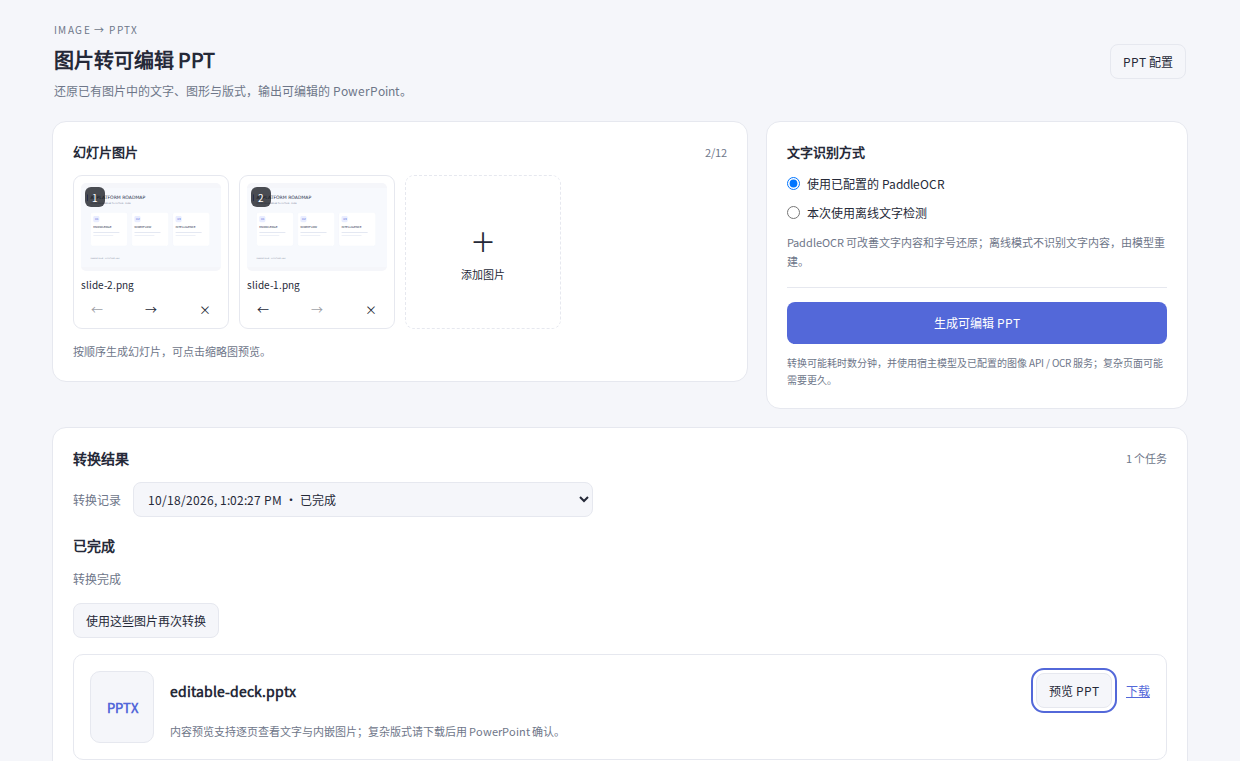
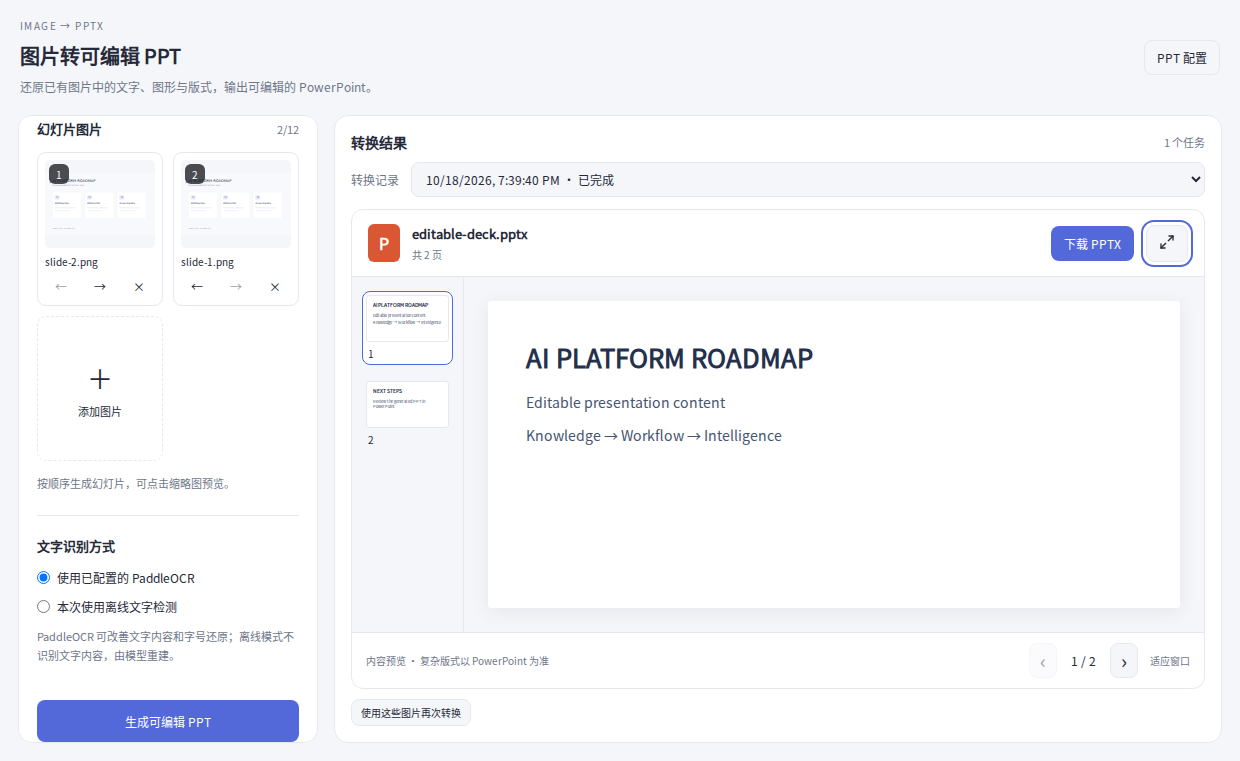
fix: restore two-pane PPT workspace with inline paginated preview

diff --git a/src/client/ppt-workspace.module.css b/src/client/ppt-workspace.module.css
@@ -1,7 +1,5 @@
-/* A bounded, task-oriented surface. Cards grow with their content. */
-.workspace { display: grid; grid-template-columns: minmax(0, 1.65fr) minmax(280px, 1fr); grid-template-areas: 'intro intro' 'sources options' 'results results'; align-content: start; align-items: start; gap: 18px; width: 100%; max-width: 1180px; height: 100%; min-height: 0; margin: 0 auto; padding: 22px; box-sizing: border-box; overflow: auto; color: var(--dsw-alias-label-primary); background: var(--dsw-alias-bg-layer-2); border-radius: 16px; }
+/* PPT mode, configuration dialog and slide content reader. */
 .workspace[hidden] { display: none; }
-.sidebar { display: contents; }
 .workspace h2, .workspace h3 { margin: 0; font-size: 18px; }
 .workspace h3 { font-size: 14px; }
 .workspace p, .setup p { margin: 0; font-size: 12px; line-height: 1.7; color: var(--dsw-alias-label-secondary); }
@@ -10,9 +8,6 @@
 .intro > button { flex: none; }
 .eyebrow { display: block; margin-bottom: 8px; font-size: 10px; letter-spacing: .14em; color: var(--dsw-alias-label-secondary); }
 .sourceSection, .options, .results { min-width: 0; padding: 20px; border: 1px solid var(--dsw-alias-border-l2); border-radius: 14px; background: var(--dsw-alias-bg-layer-1); }
-.sourceSection { grid-area: sources; display: flex; flex-direction: column; gap: 14px; }
-.options { grid-area: options; display: flex; flex-direction: column; gap: 16px; }
-.results { grid-area: results; }
 .workspace button, .setup button { padding: 8px 12px; border: 1px solid var(--dsw-alias-border-l2); border-radius: 8px; background: var(--dsw-alias-bg-layer-2); color: inherit; cursor: pointer; font: inherit; font-size: 12px; }
 .workspace button:disabled, .setup button:disabled { opacity: .45; cursor: default; }
 .workspace button:focus-visible, .setup button:focus-visible, .workspace a:focus-visible { outline: 2px solid var(--dsw-alias-brand-primary); outline-offset: 3px; }
@@ -22,7 +17,6 @@
 .workspace .upload { display: flex; min-height: 154px; flex-direction: column; align-items: center; justify-content: center; gap: 8px; padding: 20px 12px; border-style: dashed; }
 .upload > span { font-size: 26px; }
 .upload small, .field small, .ocr small { color: var(--dsw-alias-label-secondary); font-size: 11px; line-height: 1.7; }
-.inputs { display: grid; grid-template-columns: repeat(auto-fill, minmax(125px, 1fr)); gap: 10px; max-height: 330px; overflow: auto; list-style: none; padding: 0; margin: 0; }
 .inputs li { position: relative; display: flex; flex-direction: column; gap: 6px; padding: 7px; min-width: 0; border: 1px solid var(--dsw-alias-border-l2); border-radius: 9px; }
 .inputs .thumbnail { display: block; width: 100%; padding: 0; border: none; border-radius: 5px; background: var(--dsw-alias-bg-layer-2); overflow: hidden; }
 .thumbnail img { display: block; width: 100%; height: 88px; object-fit: contain; }
@@ -30,8 +24,6 @@
 .inputName { display: block; overflow: hidden; text-overflow: ellipsis; white-space: nowrap; font-size: 10px; }
 .inputActions { display: flex; width: 100%; justify-content: space-between; gap: 4px; }
 .inputActions button { padding: 2px 9px; background: transparent; border-color: transparent; }
-.inputs .addTile { min-height: 150px; padding: 0; border-style: dashed; }
-.addTile > button { display: flex; flex: 1; width: 100%; min-height: 150px; flex-direction: column; justify-content: center; align-items: center; gap: 7px; border: none; background: transparent; }
 .addTile > button span { font-size: 26px; }
 .addTile small { font-size: 11px; }
 .ocr { display: flex; flex-direction: column; gap: 12px; padding: 0; margin: 0; border: none; font-size: 12px; }
@@ -44,20 +36,11 @@
 .workspace .error { color: var(--dsw-alias-state-danger-primary, #b33535); white-space: pre-wrap; overflow-wrap: anywhere; }
 .resultHeader { display: flex; align-items: center; justify-content: space-between; gap: 12px; margin-bottom: 14px; }
 .resultHeader > span { color: var(--dsw-alias-label-secondary); font-size: 11px; }
-.empty { display: flex; min-height: 130px; flex-direction: column; align-items: center; justify-content: center; gap: 10px; text-align: center; }
 .empty > .fileIcon { width: 42px; height: 48px; font-size: 10px; }
 .fileIcon { display: inline-grid; flex: none; place-items: center; width: 64px; height: 72px; border: 1px solid var(--dsw-alias-border-l2); border-radius: 10px; background: var(--dsw-alias-bg-layer-2); color: var(--dsw-alias-brand-primary); font-size: 13px; font-weight: 600; }
-.taskPicker { display: flex; align-items: center; gap: 12px; max-width: 520px; margin: 0 0 18px; color: var(--dsw-alias-label-secondary); font-size: 12px; }
 .taskPicker select { flex: 1; min-width: 0; padding: 7px 10px; border: 1px solid var(--dsw-alias-border-l2); border-radius: 8px; color: var(--dsw-alias-label-primary); background: var(--dsw-alias-bg-layer-2); font: inherit; }
-.resultActions { display: flex; flex-wrap: wrap; gap: 8px; margin: 14px 0 0; }
 .workspace .failure { padding: 12px 14px; border: 1px solid rgb(208 64 64 / 20%); border-radius: 9px; color: var(--dsw-alias-state-danger-primary, #b33535); background: rgb(208 64 64 / 5%); white-space: pre-wrap; overflow-wrap: anywhere; }
 .workspace .progress { white-space: pre-wrap; overflow-wrap: anywhere; }
-.outputs { display: flex; flex-direction: column; gap: 12px; margin-top: 16px; }
-.outputs .deckCard { display: grid; grid-template-columns: 64px minmax(0, 1fr) auto; align-items: center; gap: 10px 16px; min-width: 0; padding: 16px; border: 1px solid var(--dsw-alias-border-l2); border-radius: 10px; }
-.deckCard > .fileIcon { grid-row: span 2; }
-.deckCard > strong { overflow-wrap: anywhere; font-size: 14px; }
-.deckActions { display: flex; align-items: center; gap: 14px; }
-.deckCard > small { grid-column: 2 / -1; color: var(--dsw-alias-label-secondary); font-size: 11px; line-height: 1.7; }
 .setup { display: flex; flex-direction: column; gap: 12px; }
 .setup a, .workspace a { color: var(--dsw-alias-brand-primary); font-size: 12px; }
 .setup form { display: flex; flex-direction: column; gap: 14px; }
@@ -74,18 +57,94 @@
 .sourcePreview { display: block; width: 100%; max-height: 70vh; object-fit: contain; }
 .diagnosticHint { margin: 0 0 12px; color: var(--dsw-alias-label-secondary); font-size: 12px; line-height: 1.7; }
 .diagnosticText { width: 100%; box-sizing: border-box; resize: vertical; padding: 12px; border: 1px solid var(--dsw-alias-border-l2); border-radius: 8px; background: var(--dsw-alias-bg-layer-2); color: inherit; font: 12px/1.6 monospace; }
+
+/* Two-pane PPT studio: controls on the left, open deck reader on the right. */
+.workspace { display: grid; width: 100%; height: 100%; min-height: 0; box-sizing: border-box; color: var(--dsw-alias-label-primary); background: var(--dsw-alias-bg-layer-2); border-radius: 16px; max-width: none; grid-template-columns: 300px minmax(0, 1fr); grid-template-rows: auto minmax(0, 1fr); grid-template-areas: 'intro intro' 'sidebar results'; gap: 16px; padding: 18px; overflow: hidden; align-content: stretch; align-items: stretch; }
+.sidebar { grid-area: sidebar; display: flex; flex-direction: column; min-height: 0; overflow: auto; padding: 18px; border: 1px solid var(--dsw-alias-border-l2); border-radius: 14px; background: var(--dsw-alias-bg-layer-1); }
+.sourceSection, .options { border: none; border-radius: 0; padding: 0; background: transparent; }
+.sourceSection { display: flex; flex-direction: column; gap: 14px; flex: none; }
+.options { display: flex; flex-direction: column; gap: 16px; margin-top: 22px; padding-top: 20px; border-top: 1px solid var(--dsw-alias-border-l2); flex: 1; }
+.options .submitBar { margin-top: auto; padding-top: 20px; border-top: none; }
+.inputs { display: grid; gap: 10px; overflow: auto; list-style: none; padding: 0; margin: 0; grid-template-columns: repeat(2, minmax(0, 1fr)); max-height: 350px; }
+.inputs .addTile { padding: 0; border-style: dashed; }
+.addTile > button { display: flex; flex: 1; width: 100%; min-height: 143px; flex-direction: column; justify-content: center; align-items: center; gap: 7px; border: none; background: transparent; }
+.results { grid-area: results; display: flex; flex-direction: column; min-height: 0; overflow: auto; padding: 16px; }
+.results > .resultHeader { margin-bottom: 10px; }
+.taskPicker { display: flex; align-items: center; gap: 12px; font-size: 12px; color: var(--dsw-alias-label-secondary); max-width: none; margin-bottom: 12px; }
+.result { display: flex; flex-direction: column; min-height: 0; flex: 1; }
+.result > .resultHeader[hidden], .result > p[hidden] { display: none; }
+.resultActions { display: flex; flex-wrap: wrap; gap: 8px; flex: none; margin: 12px 0; }
+.resultActions[data-completed] { order: 2; margin: 10px 0 0; }
+.resultActions[data-completed] button { padding: 5px 9px; font-size: 10px; }
+.outputs { display: flex; flex-direction: column; gap: 12px; flex: 1; min-height: 0; margin-top: 0; }
+.outputs:empty { display: none; }
+.empty { display: flex; flex: 1; flex-direction: column; align-items: center; justify-content: center; gap: 10px; padding: 24px; text-align: center; }
+.deckViewer { display: flex; flex-direction: column; min-height: 360px; flex: 1; border: 1px solid var(--dsw-alias-border-l2); border-radius: 12px; background: var(--dsw-alias-bg-layer-1); overflow: hidden; }
+.viewerHeader { display: flex; align-items: center; gap: 12px; padding: 14px 16px; border-bottom: 1px solid var(--dsw-alias-border-l2); }
+.pptBadge { display: grid; place-items: center; flex: none; width: 32px; height: 38px; border-radius: 6px; background: #d95732; color: #fff; font-weight: 700; }
+.viewerTitle { display: flex; flex-direction: column; gap: 4px; min-width: 0; flex: 1; }
+.viewerTitle strong { overflow: hidden; text-overflow: ellipsis; white-space: nowrap; font-size: 13px; }
+.viewerTitle small { color: var(--dsw-alias-label-secondary); font-size: 10px; }
+.workspace a.download, .dialog a.download { flex: none; text-decoration: none; padding: 9px 13px; border-radius: 8px; color: #fff; background: var(--dsw-alias-brand-primary); font-size: 12px; }
+.viewerBody { display: flex; flex: 1; min-height: 0; background: var(--dsw-alias-bg-layer-2); }
+.filmstrip { display: flex; flex-direction: column; gap: 12px; flex: none; width: 112px; padding: 14px 10px; overflow: auto; border-right: 1px solid var(--dsw-alias-border-l2); }
+.filmstrip button { flex: none; padding: 3px; background: transparent; border-color: transparent; font-size: 10px; text-align: left; }
+.filmstrip button[aria-current=page] { border-color: var(--dsw-alias-brand-primary); background: var(--dsw-alias-bg-layer-1); }
+.filmstrip button > span { display: block; padding: 4px 2px 0; }
+.miniSlide { aspect-ratio: 16 / 9; overflow: hidden; background: #fff; border: 1px solid #e6e8ee; border-radius: 3px; color: #25314c; }
+.slideStage { flex: 1; min-width: 0; display: flex; align-items: center; justify-content: center; padding: 24px; overflow: auto; }
+.slidePaper { width: 100%; max-width: 1200px; max-height: 100%; aspect-ratio: 16 / 9; min-height: 180px; overflow: auto; background: #fff; border-radius: 3px; color: #25314c; box-shadow: 0 4px 18px rgb(35 45 65 / 8%); }
+.slideContent { padding: clamp(18px, 3vw, 48px); }
+.slideContent h2 { font-size: clamp(18px, 2vw, 32px); line-height: 1.3; margin: 0 0 18px; color: #25314c; }
+.slideLines { display: flex; flex-direction: column; gap: 10px; }
+.slideLines p { font-size: clamp(12px, 1.1vw, 18px); line-height: 1.6; color: #455471; overflow-wrap: anywhere; }
+.slideImages { display: flex; flex-wrap: wrap; justify-content: center; gap: 12px; margin-bottom: 16px; }
+.slideImages img { max-width: 100%; max-height: 220px; object-fit: contain; }
+.slideContent[data-compact] { padding: 6px; pointer-events: none; }
+.slideContent[data-compact] h2 { font-size: 5px; margin-bottom: 4px; }
+.slideContent[data-compact] .slideLines { gap: 2px; }
+.slideContent[data-compact] p { font-size: 4px; line-height: 1.3; }
+.slideContent[data-compact] .slideImages { gap: 2px; margin-bottom: 3px; }
+.slideContent[data-compact] img { max-height: 20px; }
+.viewerFooter { display: flex; align-items: center; justify-content: space-between; gap: 12px; padding: 10px 14px; border-top: 1px solid var(--dsw-alias-border-l2); }
+.viewerFooter small { flex: 1; color: var(--dsw-alias-label-secondary); font-size: 10px; }
+.pageControls { display: flex; align-items: center; gap: 14px; flex: none; font-size: 12px; }
+.pageControls button { padding: 2px 10px; font-size: 20px; }
+.fitLabel { font-size: 10px; color: var(--dsw-alias-label-secondary); }
+.viewerPlaceholder { display: flex; align-items: center; justify-content: center; flex-direction: column; gap: 16px; flex: 1; padding: 30px; text-align: center; }
+.previewNotice { padding: 8px 14px; }
+.dialog:has(.deckViewer) { width: min(1400px, 96vw); }
+.dialogBody:has(.deckViewer) { padding: 0; display: flex; min-height: 0; }
+.dialogBody > .deckViewer { min-height: min(650px, 70vh); border: none; }
+.dialog button { cursor: pointer; }
+@media (max-width: 1000px) and (min-width: 761px) {
+ .workspace { grid-template-columns: 260px minmax(0, 1fr); padding: 12px; gap: 12px; }
+ .sidebar { padding: 14px; }
+ .filmstrip { width: 78px; padding: 10px 6px; }
+ .slideStage { padding: 12px; }
+ .fitLabel { display: none; }
+ .viewerHeader { flex-wrap: wrap; padding: 10px; gap: 8px; }
+ .viewerFooter { flex-wrap: wrap; }
+}
 @media (max-width: 760px) {
-  .workspace { grid-template-columns: minmax(0, 1fr); grid-template-areas: 'intro' 'sources' 'options' 'results'; gap: 12px; padding: 12px; }
-  .intro { align-items: flex-start; gap: 12px; }
-  .intro h2 { font-size: 17px; }
-  .intro p { font-size: 11px; }
-  .sourceSection, .options, .results { padding: 16px; }
-  .inputs { grid-template-columns: repeat(auto-fill, minmax(115px, 1fr)); }
-  .outputs .deckCard { grid-template-columns: 48px minmax(0, 1fr); gap: 12px; }
-  .deckCard > .fileIcon { width: 48px; height: 60px; grid-row: span 2; }
-  .deckActions { grid-column: 2; }
-  .deckCard > small { grid-column: 1 / -1; }
-  .overlay { padding: 12px; }
-  .dialog { max-height: 94vh; }
-  .dialogBody { padding: 16px; }
+ .workspace { display: flex; flex-direction: column; overflow: auto; padding: 12px; gap: 12px; }
+ .intro, .sidebar, .results { flex: none; }
+ .intro { align-items: flex-start; gap: 12px; }
+ .intro h2 { font-size: 17px; }
+ .intro p { font-size: 11px; }
+ .overlay { padding: 12px; }
+ .dialog { max-height: 94vh; }
+ .dialogBody { padding: 16px; }
+ .sidebar { overflow: visible; padding: 16px; }
+ .inputs { grid-template-columns: repeat(auto-fill, minmax(115px, 1fr)); }
+ .results { min-height: 480px; overflow: visible; padding: 12px; }
+ .result, .outputs { min-height: 360px; }
+ .filmstrip { width: 72px; padding: 10px 5px; }
+ .slideStage { padding: 10px; }
+ .viewerHeader { gap: 8px; flex-wrap: wrap; padding: 10px; }
+ .viewerTitle { min-width: 100px; }
+ .viewerFooter { flex-wrap: wrap; gap: 8px; padding: 10px; }
+ .viewerFooter small { flex-basis: 100%; }
+ .fitLabel { margin-left: auto; }
+ .slidePaper { min-height: 160px; }
 }

diff --git a/src/client/PptWorkspace.tsx b/src/client/PptWorkspace.tsx
@@ -4,7 +4,7 @@ import type { CanvasAssetRef, CanvasSkillCatalog, CanvasSkillTask } from '../pro
 import type { ImageGenApi } from './api.ts'
 import { errorMessage, tt } from './helpers.ts'
 import { useImageGenLanguageTick } from './use-language.ts'
-import { CanvasFileOverlay } from './CanvasFilePreview.tsx'
+import { PptDeckPreview } from './PptDeckPreview.tsx'
 import { PptSetup, PPT_SKILL_NAME } from './PptSetup.tsx'
 import css from './ppt-workspace.module.css'
 
@@ -118,8 +118,8 @@ export function PptWorkspace({ api, active, importRequest, onImported }: { api: 
     finally { setBusy(false) }
   }
   return <div className={css.workspace} hidden={!active} data-ppt-workspace="">
+    <header className={css.intro}><div><span className={css.eyebrow}>IMAGE → PPTX</span><h2>{tt('ppt.title')}</h2><p>{tt('ppt.description')}</p></div><button type="button" data-ppt-open-settings="" onClick={() => setSettingsOpen(true)}>{tt('ppt.openSettings')}</button></header>
     <aside className={css.sidebar}>
-      <header className={css.intro}><div><span className={css.eyebrow}>IMAGE → PPTX</span><h2>{tt('ppt.title')}</h2><p>{tt('ppt.description')}</p></div><button type="button" data-ppt-open-settings="" onClick={() => setSettingsOpen(true)}>{tt('ppt.openSettings')}</button></header>
       <section className={css.sourceSection} onDragOver={event => event.preventDefault()} onDrop={event => { event.preventDefault(); if (!busy) accept(Array.from(event.dataTransfer.files)) }}>
         <div className={css.sourceHeading}><strong>{tt('ppt.sources')}</strong><span>{images.length}/12</span></div>
         {images.length === 0 ? <button type="button" className={css.upload} data-ppt-upload-empty="" disabled={uploading || busy} onClick={() => fileInput.current?.click()}>
@@ -160,11 +160,11 @@ export function PptWorkspace({ api, active, importRequest, onImported }: { api: 
       {tasks.length === 0 ? <div className={css.empty}><span className={css.fileIcon}>PPTX</span><h3>{tt('ppt.empty')}</h3><p>{tt('ppt.emptyHint')}</p></div> : <>
         <label className={css.taskPicker}><span>{tt('ppt.history')}</span><select aria-label={tt('ppt.history')} value={focused?.id ?? ''} onChange={event => setSelected(event.target.value)}>{tasks.map(task => <option key={task.id} value={task.id}>{new Date(task.startedAt).toLocaleString()} · {tt(`tasks.${task.status}` as never)}</option>)}</select></label>
         {focused ? <section className={css.result} data-ppt-task={focused.id} data-task-status={focused.status}>
-          <div className={css.resultHeader}><h3>{tt(`tasks.${focused.status}` as never)}</h3>
+          <div className={css.resultHeader} hidden={focused.status === 'completed'}><h3>{tt(`tasks.${focused.status}` as never)}</h3>
             {running(focused) ? <button type="button" onClick={() => { void api.canvasSkillCancel(focused.id).then(async () => setTasks(await api.pptTasks())).catch(error => setError(errorMessage(error))) }}>{tt('ppt.cancel')}</button> : null}
           </div>
-          <p className={focused.status === 'failed' ? css.failure : css.progress} role="status">{running(focused) ? `${focused.stage || tt('ppt.working')} · ${tt('canvas.elapsed', { seconds: Math.max(0, Math.floor((clock - focused.startedAt) / 1000)) })}` : focused.error || focused.stage}</p>
-          <div className={css.resultActions}>
+          <p hidden={focused.status === 'completed'} className={focused.status === 'failed' ? css.failure : css.progress} role="status">{running(focused) ? `${focused.stage || tt('ppt.working')} · ${tt('canvas.elapsed', { seconds: Math.max(0, Math.floor((clock - focused.startedAt) / 1000)) })}` : focused.error || focused.stage}</p>
+          <div className={css.resultActions} data-completed={focused.status === 'completed' || undefined}>
             <button type="button" disabled={busy || uploading} onClick={() => { commit(focused.pptImages ?? []); setError('') }}>{tt('ppt.reuseImages')}</button>
             {focused.status === 'failed' || focused.status === 'cancelled' ? <button type="button" disabled={!ready || busy || uploading || !focused.pptImages?.length} onClick={() => { commit(focused.pptImages ?? []); void submit(focused.pptImages) }}>{tt('ppt.retry')}</button> : null}
             {focused.status === 'failed' ? <><button type="button" onClick={() => setSettingsOpen(true)}>{tt('ppt.checkSetup')}</button><button type="button" data-ppt-diagnostic="" onClick={() => setDiagnostic(focused)}>{tt('ppt.diagnostic')}</button></> : null}
@@ -173,12 +173,7 @@ export function PptWorkspace({ api, active, importRequest, onImported }: { api: 
           <div className={css.outputs}>{focused.output?.nodes.map(node => {
             const asset = node.metadata?.asset
             if (!asset || !asset.name?.toLowerCase().endsWith('.pptx')) return null
-            return <article key={node.id} className={css.deckCard} data-ppt-deck="">
-              <span className={css.fileIcon}>PPTX</span>
-              <strong>{asset.name || node.title}</strong>
-              <div className={css.deckActions}><button type="button" data-ppt-preview="" onClick={() => setPptPreview(asset)}>{tt('ppt.previewDeck')}</button><a href={asset.url} download={asset.name}>{tt('download')}</a></div>
-              <small>{tt('ppt.previewHint')}</small>
-            </article>
+            return <PptDeckPreview key={`${focused.id}-${asset.assetId}`} api={api} asset={asset} onExpand={() => setPptPreview(asset)} />
           })}</div>
         </section> : null}
       </>}
@@ -188,7 +183,7 @@ export function PptWorkspace({ api, active, importRequest, onImported }: { api: 
       <p className={css.diagnosticHint}>{tt(diagnostic.agentSessionId ? 'ppt.diagnosticHint' : 'ppt.legacyDiagnostic')}</p>
       <textarea className={css.diagnosticText} readOnly rows={14} aria-label={tt('ppt.diagnostic')} onFocus={event => event.currentTarget.select()} value={JSON.stringify({ taskId: diagnostic.id, status: diagnostic.status, startedAt: new Date(diagnostic.startedAt).toISOString(), finishedAt: diagnostic.finishedAt ? new Date(diagnostic.finishedAt).toISOString() : undefined, agentSessionId: diagnostic.agentSessionId, runDirectory: diagnostic.runDirectory, error: diagnostic.error, inputCount: diagnostic.pptImages?.length }, null, 2)} />
     </PptDialog> : null}
-    {pptPreview ? createPortal(<CanvasFileOverlay key={pptPreview.assetId} api={api} asset={pptPreview} fileKind="office" title={pptPreview.name || 'PPTX'} onClose={() => setPptPreview(undefined)} />, document.body) : null}
+    {pptPreview ? <PptDialog title={pptPreview.name || 'PPTX'} close={() => setPptPreview(undefined)}><PptDeckPreview key={pptPreview.assetId} api={api} asset={pptPreview} /></PptDialog> : null}
     {sourcePreview ? <PptDialog title={sourcePreview.name || tt('ppt.previewSource')} close={() => setSourcePreview(undefined)}><img className={css.sourcePreview} src={sourcePreview.url} alt={sourcePreview.name || ''} /></PptDialog> : null}
   </div>
 }

diff --git a/src/client/PptDeckPreview.tsx b/src/client/PptDeckPreview.tsx
@@ -1,0 +1,48 @@
+import { useEffect, useState } from 'react'
+import { Maximize2 } from 'lucide-react'
+import type { CanvasAssetRef, CanvasSlidePreview } from '../protocol.ts'
+import type { ImageGenApi } from './api.ts'
+import { useFilePreview } from './CanvasFilePreview.tsx'
+import { tt } from './helpers.ts'
+import css from './ppt-workspace.module.css'
+
+function SlideContent({ slide, compact = false }: { slide: CanvasSlidePreview; compact?: boolean }) {
+  return <div className={css.slideContent} data-compact={compact || undefined}>
+    {slide.title ? <h2>{slide.title}</h2> : null}
+    {slide.images.length ? <div className={css.slideImages}>{slide.images.map((image, index) => <img key={index} src={image.data} alt="" loading="lazy" />)}</div> : null}
+    <div className={css.slideLines}>{(compact ? slide.lines.slice(0, 4) : slide.lines).map((line, index) => <p key={index}>{line}</p>)}</div>
+  </div>
+}
+
+/** Read the generated PPTX itself, never use its input images as slide previews. */
+export function PptDeckPreview({ api, asset, onExpand }: { api: ImageGenApi; asset: CanvasAssetRef; onExpand?: () => void }) {
+  const { preview, error, reload } = useFilePreview(api, asset, true)
+  const [page, setPage] = useState(0)
+  const slides = preview?.kind === 'slides' ? preview.slides : []
+  const index = Math.min(page, Math.max(0, slides.length - 1))
+  const slide = slides[index]
+  useEffect(() => { setPage(0) }, [asset.assetId])
+  return <div className={css.deckViewer} data-ppt-deck="">
+    <header className={css.viewerHeader}>
+      <span className={css.pptBadge}>P</span><div className={css.viewerTitle}><strong title={asset.name}>{asset.name || 'PowerPoint'}</strong><small>{slides.length ? tt('ppt.pages', { count: slides.length }) : 'PPTX'}</small></div>
+      <a className={css.download} href={asset.url} download={asset.name}>{tt('ppt.downloadDeck')}</a>
+      {onExpand ? <button type="button" data-ppt-preview="" aria-label={tt('ppt.expand')} title={tt('ppt.expand')} onClick={onExpand}><Maximize2 size={16} aria-hidden="true" /></button> : null}
+    </header>
+    {slide ? <>
+      <div className={css.viewerBody}>
+        <nav className={css.filmstrip} aria-label={tt('ppt.pageNavigation')}>
+          {slides.map((item, at) => <button type="button" key={at} data-ppt-page={at + 1} aria-label={tt('ppt.goToPage', { page: at + 1 })} aria-current={at === index ? 'page' : undefined} onClick={() => setPage(at)}>
+            <div className={css.miniSlide}><SlideContent slide={item} compact /></div><span>{at + 1}</span>
+          </button>)}
+        </nav>
+        <div className={css.slideStage} data-ppt-slide={index + 1}><div className={css.slidePaper}><SlideContent slide={slide} /></div></div>
+      </div>
+      <footer className={css.viewerFooter}><small>{tt('ppt.contentPreview')}</small><div className={css.pageControls}>
+        <button type="button" aria-label={tt('ppt.previousPage')} disabled={index === 0} onClick={() => setPage(index - 1)}>‹</button>
+        <span aria-live="polite">{index + 1} / {slides.length}</span>
+        <button type="button" aria-label={tt('ppt.nextPage')} disabled={index >= slides.length - 1} onClick={() => setPage(index + 1)}>›</button>
+      </div><span className={css.fitLabel}>{tt('ppt.fitWindow')}</span></footer>
+      {preview?.kind === 'slides' && preview.truncated ? <p className={css.previewNotice}>{tt('canvas.preview.slidesTruncated', { count: slides.length })}</p> : null}
+    </> : <div className={css.viewerPlaceholder} role="status"><span className={css.fileIcon}>PPTX</span><p>{error ? tt('canvas.preview.failed', { message: error }) : preview ? tt('canvas.preview.empty') : tt('canvas.skills.filePreviewLoading')}</p>{error ? <button type="button" onClick={reload}>{tt('canvas.preview.retry')}</button> : null}</div>}
+  </div>
+}

diff --git a/scripts/ppt-preview.tsx b/scripts/ppt-preview.tsx
@@ -8,9 +8,10 @@ import type { CanvasSkillTask } from '../src/protocol.ts'
 
 const assets = [1, 2].map(index => ({ assetId: `slide-${index}.png`, url: '/slide.png', mime: 'image/png', bytes: 100, width: 1600, height: 900, origin: 'upload' as const, name: `AI-planning-${index}.png` }))
 let task: CanvasSkillTask | undefined
+let previewAttempts = 0
 const api = {
   async canvasFileUpload(file: File) { return { ...assets[0], name: file.name } },
-  async canvasFilePreview() { return { kind: 'slides', format: 'pptx', slides: [{ title: 'AI PLATFORM ROADMAP', lines: ['Editable presentation content', 'Knowledge → Workflow → Intelligence'], images: [] }, { title: 'NEXT STEPS', lines: ['Review the generated PPT in PowerPoint'], images: [] }], truncated: false } },
+  async canvasFilePreview(asset: { assetId: string }) { if (asset.assetId === 'preview-retry.pptx' && previewAttempts++ === 0) throw new Error('Preview temporarily unavailable'); return { kind: 'slides', format: 'pptx', slides: [{ title: 'AI PLATFORM ROADMAP', lines: ['Editable presentation content', 'Knowledge → Workflow → Intelligence'], images: [] }, { title: 'NEXT STEPS', lines: ['Review the generated PPT in PowerPoint'], images: [] }], truncated: false } },
   async pptTasks() { return task ? [task] : [] },
   async canvasSkillsList() { return { skills: [], installed: ['image-to-editable-ppt'], agentAvailable: true, registryAvailable: true } },
   async canvasSkillLibrary() { return { entries: [{ name: 'image-to-editable-ppt', config: { values: [{ id: 'paddle-ocr-token', set: true }] } }] } },
@@ -28,7 +29,8 @@ function Preview() {
     <button onClick={() => {
       task = { id: 'ppt-preview', canvasId: 'ppt', skillId: 'ppt.fromImages', label: 'PPT', tier: 'heavy', status: 'completed', startedAt: Date.now() - 204000, pptImages: assets, stage: '转换完成', output: { nodes: [{ id: 'deck', type: 'file', title: 'editable-deck.pptx', x: 0, y: 0, width: 300, height: 170, metadata: { asset: { ...assets[0], assetId: 'deck.pptx', mime: 'application/vnd.openxmlformats-officedocument.presentationml.presentation', name: 'editable-deck.pptx', url: '/deck.pptx' } } }, { id: 'preview', type: 'file', title: 'preview.png', x: 0, y: 0, width: 300, height: 170, metadata: { asset: { ...assets[0], name: 'preview.png' } } }], connections: [], warnings: [] } }
     }}>示例完成</button>
-    <button onClick={() => { if (task) task = { ...task, status: 'failed', outputs: [], error: 'Model API returned 401', agentSessionId: 'skillagent-preview', runDirectory: '/example/ppt/run' } }}>示例失败</button>
+    <button onClick={() => { if (task?.output) task = { ...task, status: 'completed', output: { ...task.output, nodes: task.output.nodes.slice(0, 1).map(node => ({ ...node, metadata: { ...node.metadata, asset: { ...node.metadata!.asset!, assetId: 'preview-retry.pptx' } } })) } } }}>示例预览重试</button>
+    <button onClick={() => { if (task) task = { ...task, status: 'failed', output: undefined, error: 'Model API returned 401', agentSessionId: 'skillagent-preview', runDirectory: '/example/ppt/run' } }}>示例失败</button>
     <button onClick={() => { task = undefined }}>清空示例</button>
   </header>{setup ? <main className="settings"><h2>图片转可编辑 PPT 配置</h2><PptSetup /></main> : <main><PptWorkspace api={api} active importRequest={importRequest} onImported={() => setImport(undefined)} /></main>}</div>
 }

diff --git a/src/client/locales.ts b/src/client/locales.ts
@@ -7,6 +7,15 @@ export const zh = {
   "ppt.diagnosticHint": "这里保留任务、Agent 会话和运行目录，便于关联 DSH 运行日志。点击文本框可全选复制。",
   "ppt.legacyDiagnostic": "这是旧任务，未保存 Agent 会话和原始错误，无法从这个通用报错恢复根因。请提供任务时间附近的 DSH 运行日志；点击文本框可复制任务信息。",
 
+  "ppt.pages": "共 {count} 页",
+  "ppt.downloadDeck": "下载 PPTX",
+  "ppt.expand": "放大预览",
+  "ppt.pageNavigation": "幻灯片导航",
+  "ppt.goToPage": "转到第 {page} 页",
+  "ppt.previousPage": "上一页",
+  "ppt.nextPage": "下一页",
+  "ppt.contentPreview": "内容预览 · 复杂版式以 PowerPoint 为准",
+  "ppt.fitWindow": "适应窗口",
   "ppt.previewDeck": "预览 PPT",
   "ppt.previewHint": "内容预览支持逐页查看文字与内嵌图片；复杂版式请下载后用 PowerPoint 确认。",
 
@@ -1040,6 +1049,15 @@ export const en: Record<keyof typeof zh, string> = {
   "ppt.diagnosticHint": "Use the task, agent session and directory to locate the DSH execution logs. Click the text area to select all.",
   "ppt.legacyDiagnostic": "This older task did not retain its agent session or original error. Its root cause cannot be recovered from this generic message. Provide DSH logs around the task time. Click to copy the task details.",
 
+  "ppt.pages": "{count} slides",
+  "ppt.downloadDeck": "Download PPTX",
+  "ppt.expand": "Expand preview",
+  "ppt.pageNavigation": "Slide navigation",
+  "ppt.goToPage": "Go to slide {page}",
+  "ppt.previousPage": "Previous slide",
+  "ppt.nextPage": "Next slide",
+  "ppt.contentPreview": "Content preview · Check complex layouts in PowerPoint",
+  "ppt.fitWindow": "Fit to window",
   "ppt.previewDeck": "Preview PPT",
   "ppt.previewHint": "Content preview shows slide text and embedded pictures. Check complex layouts in PowerPoint after downloading.",
 
@@ -2063,6 +2081,15 @@ export const ru: Record<keyof typeof zh, string> = {
   "ppt.diagnosticHint": "Используйте задание, сеанс агента и каталог для поиска журналов DSH. Нажмите текст для выделения.",
   "ppt.legacyDiagnostic": "Старое задание не сохранило сеанс агента и исходную ошибку. Для определения причины нужны журналы DSH за время выполнения.",
 
+  "ppt.pages": "Слайдов: {count}",
+  "ppt.downloadDeck": "Скачать PPTX",
+  "ppt.expand": "Развернуть просмотр",
+  "ppt.pageNavigation": "Навигация по слайдам",
+  "ppt.goToPage": "Перейти к слайду {page}",
+  "ppt.previousPage": "Предыдущий слайд",
+  "ppt.nextPage": "Следующий слайд",
+  "ppt.contentPreview": "Просмотр содержимого · Сложная вёрстка — в PowerPoint",
+  "ppt.fitWindow": "По размеру окна",
   "ppt.previewDeck": "Просмотр PPT",
   "ppt.previewHint": "Просмотр показывает текст и встроенные изображения слайдов. Сложную вёрстку проверяйте в PowerPoint.",
 

diff --git a/src/client/CanvasFilePreview.tsx b/src/client/CanvasFilePreview.tsx
@@ -97,7 +97,7 @@ interface PreviewState {
 }
 
 /** Load one asset's structured preview once, shared by node body and overlay. */
-function useFilePreview(api: ImageGenApi, asset: CanvasAssetRef, enabled: boolean): PreviewState & { reload: () => void } {
+export function useFilePreview(api: ImageGenApi, asset: CanvasAssetRef, enabled: boolean): PreviewState & { reload: () => void } {
   const cached = previewCache.get(asset.assetId)
   const [state, setState] = useState<PreviewState>(() => cached === undefined ? { loading: enabled } : { preview: cached, loading: false })
   const [nonce, setNonce] = useState(0)

diff --git a/docs/releases/v1.9.1.md b/docs/releases/v1.9.1.md
@@ -1,13 +1,13 @@
-# v1.9.1 · PPT 转换交付与界面修复（审核包）
+# v1.9.1 · PPT 转换交付与界面修复
 
 - 修复宿主 Agent 的模型/执行错误被「未输出最终 PPTX」掩盖的问题，保留具体错误并脱敏；没有回复时提示检查默认模型连接和工具配置。
 - 接收上游 skill 自己 final 目录里的最终 PPTX：只接受完成记录和通过的校验报告，继续检查 PPTX 结构与页数；不把中间页文件作为成功结果。
 - 「PPT 配置」改为当前页面直接打开的弹窗，复用生图配置里的同一组字段，不再依赖宿主设置按钮的 DOM 查找。支持 Escape、焦点约束和返回原按钮。
 - 上传后移除大上传区域，改为缩略图网格与「＋」卡片，支持点击预览、移动顺序和删除。
-- 重新安排布局：居中限宽工作区，上方并排显示图片素材与转换选项，下方整行显示结果；卡片随内容决定高度，避免全屏空白面板。小屏使用单列，图片列表独立滚动；配置入口移至标题右侧，转换记录使用下拉。
+- 保留左右布局：左侧放图片与参数，右侧自动打开最终 PPTX 内容预览；支持多页缩略图切换、上一页/下一页、放大与下载。小屏使用单列，图片列表独立滚动；配置入口放在标题右侧，转换记录使用下拉。
 
-- 结果区仅展示最终 PPTX，移除原图、辅助预览图与其他文件卡片；新增 PPT 内容预览和任务诊断入口。预览可查看文字与内嵌图片，复杂版式以 PowerPoint 为准。
+- 结果区仅展示最终 PPTX 内容，移除原图、辅助预览图与文件卡片；新增任务诊断入口，预览失败可重试且仍可下载文件。预览可查看文字与内嵌图片，复杂版式以 PowerPoint 为准。
 
-本版为审核包，尚未合并或发布 npm。自动回归覆盖宿主错误、脱敏、上游final产物收集、未通过校验的产物拒绝、原有生图功能；浏览器检查缩略图替换上传区、独立配置弹窗、上传排序、取消、下载与不同视口。
+自动回归覆盖宿主错误、脱敏、上游final产物收集、未通过校验的产物拒绝、原有生图功能；浏览器检查缩略图替换上传区、独立配置弹窗、上传排序、取消、下载、多页导航、预览重试与不同视口。
 
 截图反馈无法确定用户本机的实际模型/API错误，更新后将显示具体错误；本地未使用用户的真实宿主凭据完成模型转换。
